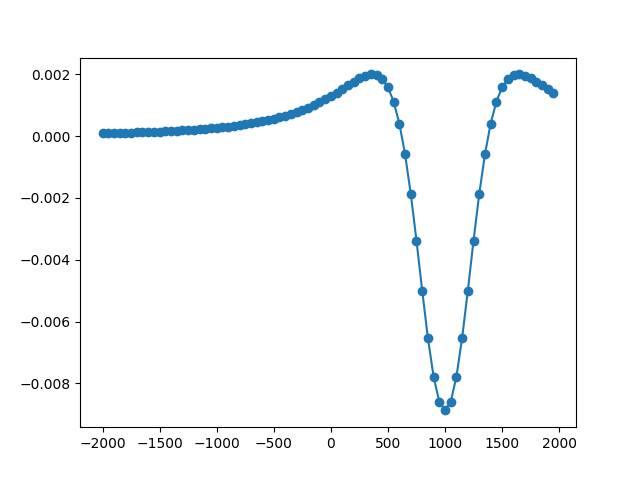
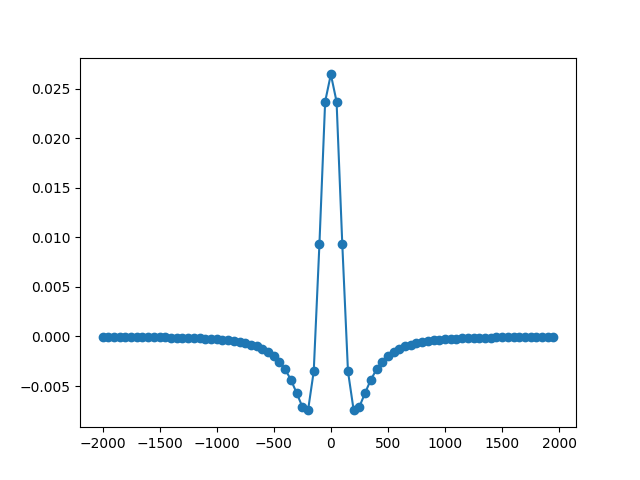
generator v0.1 done

diff --git a/extras.py b/extras.py
@@ -21,13 +21,19 @@ class Point:
 
 # TODO: сделать в ячейке список узлов
 class Cell(Point):
-    length = 200
-    width = 200
-    height = 100
-    I = 1
+    # length = 200
+    # width = 200
+    # height = 100
+    # I = 1
 
-    def __init__(self, x: float, y: float, z: float, px: float = 0, py: float = 0, pz: float = 0):
+    def __init__(self,
+                 x: float, y: float, z: float,
+                 length, width, height,
+                 px: float = 0, py: float = 0, pz: float = 0,):
         super().__init__(x, y, z)
+        self.length = length
+        self.width = width
+        self.height = height
         self.px = px
         self.py = py
         self.pz = pz
@@ -59,7 +65,7 @@ def get_mesh(path: str) -> list:
     cells = []
     for f in open(path):
         buf = [float(attr) for attr in f.split(' ')]
-        cells.append(Cell(*buf))
+        cells.append(Cell(*buf, 200, 200, 100))
         # cells.append(Cell(buf[0],
         #                   buf[1],
         #                   buf[2],
@@ -68,8 +74,10 @@ def get_mesh(path: str) -> list:
 
 
 # TODO: рисование сетки по координатам узлов ячейки
-def draw_mesh(path: str, mesh: list, receivers):
+def draw_mesh(path: str, mesh: list, receivers: list = None):
 
+    if receivers is None:
+        receivers = []
     fig, ax = plt.subplots(figsize=(16.0, 4.8))
     x = []
     z = []
@@ -79,12 +87,16 @@ def draw_mesh(path: str, mesh: list, receivers):
 
     ax.scatter(x, z)
     ax.axis('equal')
+    ax.axhline(y=0, color='k', linewidth=1)
+    ax.axvline(x=0, color='k', linewidth=1)
     # ax.grid(True)
-    ax.set_xticks(numpy.arange(-2000, 2000, 200))
-    ax.set_yticks(numpy.arange(-1000, 200, 100))
+    # ax.set_xticks(numpy.arange(-2000, 2000, 200))
+    # ax.set_yticks(numpy.arange(-1000, 200, 100))
 
-    min_px = min(mesh, key=lambda x: x.px).px
-    max_px = max(mesh, key=lambda x: x.px).px
+    # ax.set_ylim([-400, 100])
+
+    min_px = min(mesh, key=lambda cell: cell.px).px
+    max_px = max(mesh, key=lambda cell: cell.px).px
 
     # TODO: исправить костыль
     if min_px > 0:
@@ -94,14 +106,15 @@ def draw_mesh(path: str, mesh: list, receivers):
     for cell in mesh:
         # print(cell.x, cell.z, cell.width)
         print(f"px = {cell.px}")
-        rect = Rectangle((cell.x - cell.width / 2, cell.z - cell.height / 2),
-                         cell.width,
+        rect = Rectangle((cell.x - cell.length / 2, cell.z - cell.height / 2),
+                         cell.length,
                          cell.height,
-                         linewidth=2,
+                         linewidth=1,
                          # edgecolor='none',
-                         edgecolor='w',
+                         edgecolor='k',
                          facecolor=f'{1 - (cell.px - min_px)/(max_px - min_px)}')
         ax.add_patch(rect)
         ax.annotate(round(cell.px, 1), (cell.x, cell.z), ha='center', va='center', color=f'{(cell.px - min_px)/(max_px - min_px)}')
-    plt.grid()
+    # plt.grid()
+    plt.ylim([-400, 100])
     plt.savefig(path)

diff --git a/direct.py b/direct.py
@@ -2,7 +2,7 @@ import math
 from matplotlib import pyplot as plt
 
 from extras import Cell, Point, get_mesh, get_receivers, draw_mesh
-
+from generator import generate_mesh
 
 def get_receivers_result(path: str) -> list:
     receivers = []
@@ -17,12 +17,16 @@ def get_receivers_result(path: str) -> list:
 cells_path = 'cells.dat'
 receivers_path = 'receivers.dat'
 
-mesh = get_mesh(cells_path)
+# mesh = get_mesh(cells_path)
+start_pnt = Point(-100, 0, -100)
+end_pnt = Point(100, 100, -200)
+mesh = generate_mesh(start_pnt, end_pnt, 2, 1, 2)
+for cell in mesh:
+    cell.px = 1
 # print(mesh)
 
 # print(mesh[0].distance(mesh[1]))
 
-# TODO: добавить компоненты py и pz
 x = []
 y = []
 receivers_results_path = 'receivers_results.dat'
@@ -39,17 +43,17 @@ for rcv_x in range(-2000, 2000, 50):
         dy = receiver.y - cell.y
         dz = receiver.z - cell.z
         distance = receiver.distance(cell)
-        Bx += cell.volume() * cell.I / (4 * math.pi * distance ** 3) * (
+        Bx += cell.volume() / (4 * math.pi * distance ** 3) * (
             cell.px * (3 * dx * dx / distance ** 2 - 1) +
             cell.py * (3 * dx * dy / distance ** 2) +
             cell.pz * (3 * dx * dz / distance ** 2)
         )
-        By += cell.volume() * cell.I / (4 * math.pi * distance ** 3) * (
+        By += cell.volume() / (4 * math.pi * distance ** 3) * (
             cell.px * (3 * dx * dy / distance ** 2) +
             cell.py * (3 * dy * dy / distance ** 2 - 1) +
             cell.pz * (3 * dy * dz / distance ** 2)
         )
-        Bz += cell.volume() * cell.I / (4 * math.pi * distance ** 3) * (
+        Bz += cell.volume() / (4 * math.pi * distance ** 3) * (
             cell.px * (3 * dx * dz / distance ** 2) +
             cell.py * (3 * dy * dz / distance ** 2) +
             cell.pz * (3 * dz * dz / distance ** 2 - 1)

diff --git a/inverse.py b/inverse.py
@@ -2,13 +2,18 @@ import math
 
 import numpy as np
 
-from extras import get_mesh, get_receivers, draw_mesh
+from extras import Point, get_mesh, get_receivers, draw_mesh
+from generator import generate_mesh
 
 receivers_results_path = 'receivers_results.dat'
 mesh_path = 'mesh_16.dat'
 
-mesh = get_mesh(mesh_path)
+# mesh = get_mesh(mesh_path)
 receivers = get_receivers(receivers_results_path)
+start_pnt = Point(-500, 0, 0)
+end_pnt = Point(400, 100, -300)
+mesh = generate_mesh(start_pnt, end_pnt, 9, 1, 6)
+
 L = np.zeros(shape=(len(receivers) * 3, len(mesh) * 3))
 # L = np.zeros(shape=(len(receivers), len(mesh) * 3))
 for i, r in enumerate(receivers):
@@ -31,8 +36,8 @@ for i, r in enumerate(receivers):
         L[i*3+2][j*3+2] += mult * 3 * (dz * dz / dist ** 2 - 1)
 
 S = [b for r in receivers for b in (r.bx, r.by, r.bz)]
-# print(f"L = {L}")
-# print(f"S = {S}")
+print(f"L = {L}")
+print(f"S = {S}")
 
 # C = np.zeros(shape=(len(receivers), len(mesh) * 3))
 
@@ -42,8 +47,8 @@ b = np.matmul(L.transpose(), S)
 # print(f"A = {A}")
 # print(f"b = {b}")
 
-# alfa = 10**-2
-alfa = 0
+alfa = 10**-5
+# alfa = 0
 ones = np.eye(len(A))
 regularizedA = A + np.dot(alfa, ones)
 p = np.linalg.solve(regularizedA, b)

diff --git a/generator.py b/generator.py
@@ -1,0 +1,36 @@
+from extras import Point, Cell, draw_mesh
+
+
+def generate_mesh(point_start: Point,
+                  point_end: Point,
+                  count_x: int = 1,
+                  count_y: int = 1,
+                  count_z: int = 1):
+
+    mesh = []
+    length = (point_end.x - point_start.x) / count_x
+    width = (point_end.y - point_start.y) / count_y
+    height = (point_end.z - point_start.z) / count_z
+    x = point_start.x
+    # print(f"length = {length}, width = {width}, height = {height}")
+    for i in range(count_x):
+        y = point_start.y
+        for j in range(count_y):
+            z = point_start.z
+            for k in range(count_z):
+                mesh.append(Cell(x + length/2, y + width/2, z + height/2,
+                                 length, width, height))
+                z += height
+            y += width
+        x += length
+
+    return mesh
+
+
+if __name__ == '__main__':
+    start_pnt = Point(-500, 0, 0)
+    end_pnt = Point(400, 0, -300)
+    generated_mesh = generate_mesh(start_pnt, end_pnt, 9, 1, 6)
+    # generated_mesh[]
+    # print(generated_mesh)
+    # draw_mesh('generated_mesh.png', generated_mesh)
